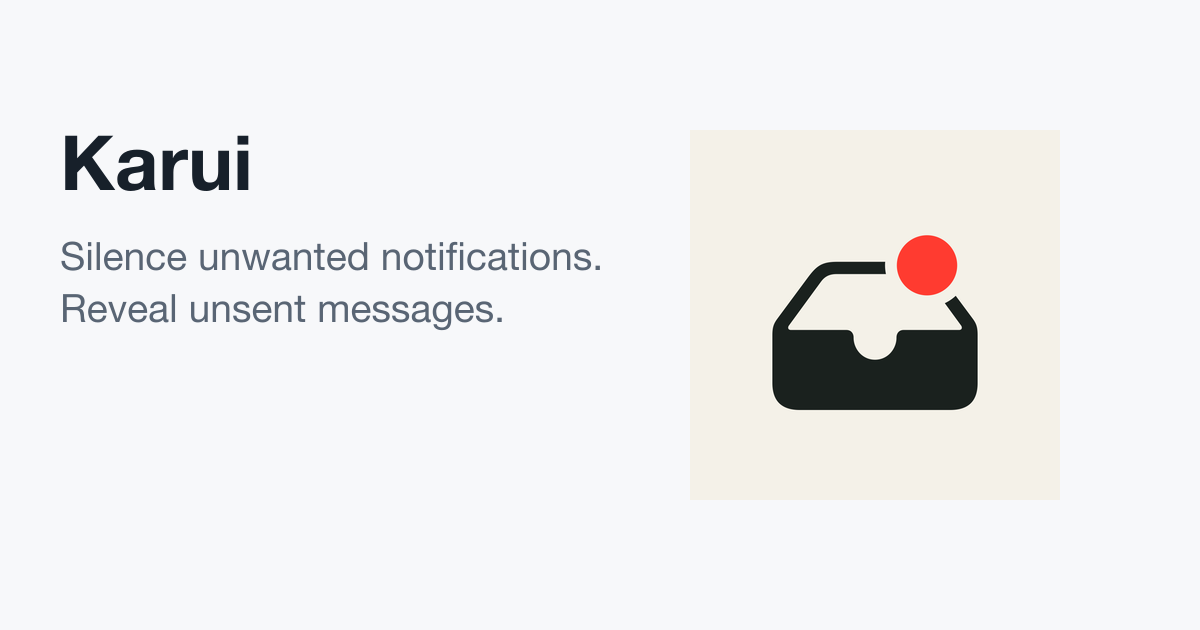
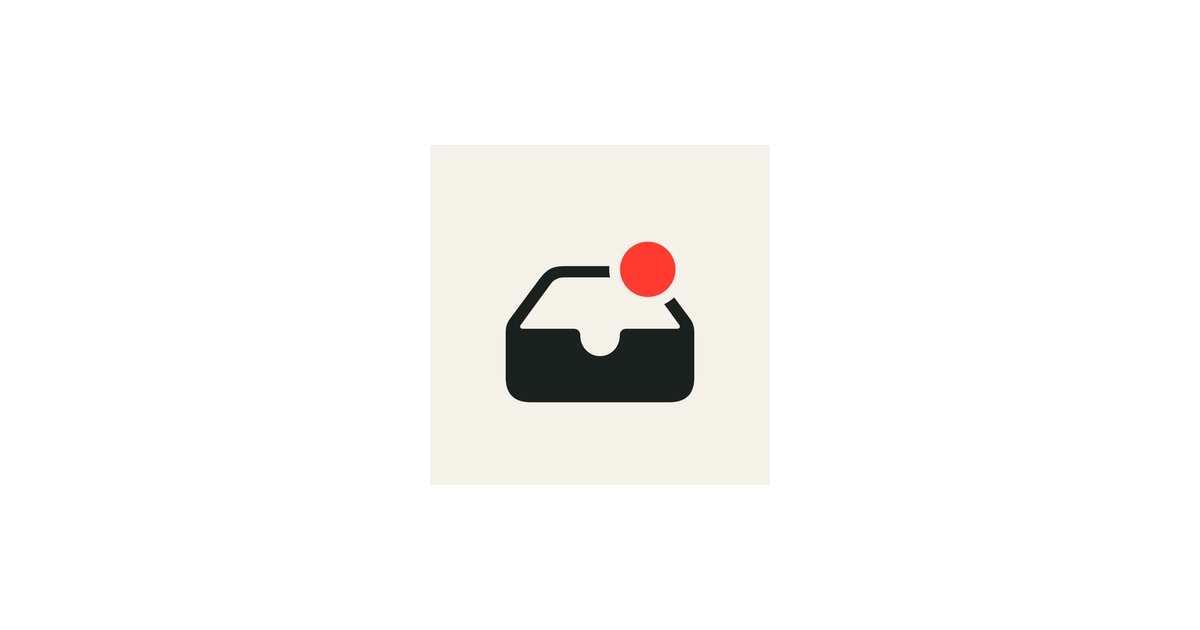
fixes

Changed region(s): [[0.0308, 0.3619, 0.5858, 0.6635], [0.6167, 0.3619, 0.8325, 0.6635], [0.0308, 0.2111, 0.2158, 0.3016]]

diff --git a/karui.html b/karui.html
@@ -14,8 +14,8 @@
   <meta property="og:url" content="https://karui.jp/">
   <meta property="og:site_name" content="Karui">
   <meta property="og:description" content="Your private notifications never leave your iPhone. No server, account, or analytics." data-label-en="Your private notifications never leave your iPhone. No server, account, or analytics." data-label-ja="プライベートな通知がiPhoneの外に出ることはありません。サーバー、アカウント、分析機能は一切ありません。">
-  <meta property="og:image" content="https://karui.jp/assets/karui-social.png?v=2">
-  <meta property="og:image:secure_url" content="https://karui.jp/assets/karui-social.png?v=2">
+  <meta property="og:image" content="https://karui.jp/assets/karui-social.png?v=3">
+  <meta property="og:image:secure_url" content="https://karui.jp/assets/karui-social.png?v=3">
   <meta property="og:image:type" content="image/png">
   <meta property="og:image:width" content="1200">
   <meta property="og:image:height" content="630">
@@ -23,7 +23,7 @@
   <meta name="twitter:card" content="summary_large_image">
   <meta name="twitter:title" content="Karui: Quiet unwanted notifications" data-label-en="Karui: Quiet unwanted notifications" data-label-ja="Karui：不要な通知を静かに整理">
   <meta name="twitter:description" content="Your private notifications never leave your iPhone. No server, account, or analytics." data-label-en="Your private notifications never leave your iPhone. No server, account, or analytics." data-label-ja="プライベートな通知がiPhoneの外に出ることはありません。サーバー、アカウント、分析機能は一切ありません。">
-  <meta name="twitter:image" content="https://karui.jp/assets/karui-social.png?v=2">
+  <meta name="twitter:image" content="https://karui.jp/assets/karui-social.png?v=3">
   <meta name="twitter:image:alt" content="Karui with the message Silence unwanted notifications. Reveal unsent messages." data-label-en="Karui with the message Silence unwanted notifications. Reveal unsent messages." data-label-ja="「不要な通知を消音。送信されなかったメッセージを確認。」というメッセージを添えたKaruiのプレビュー">
   <style>
     :root {
